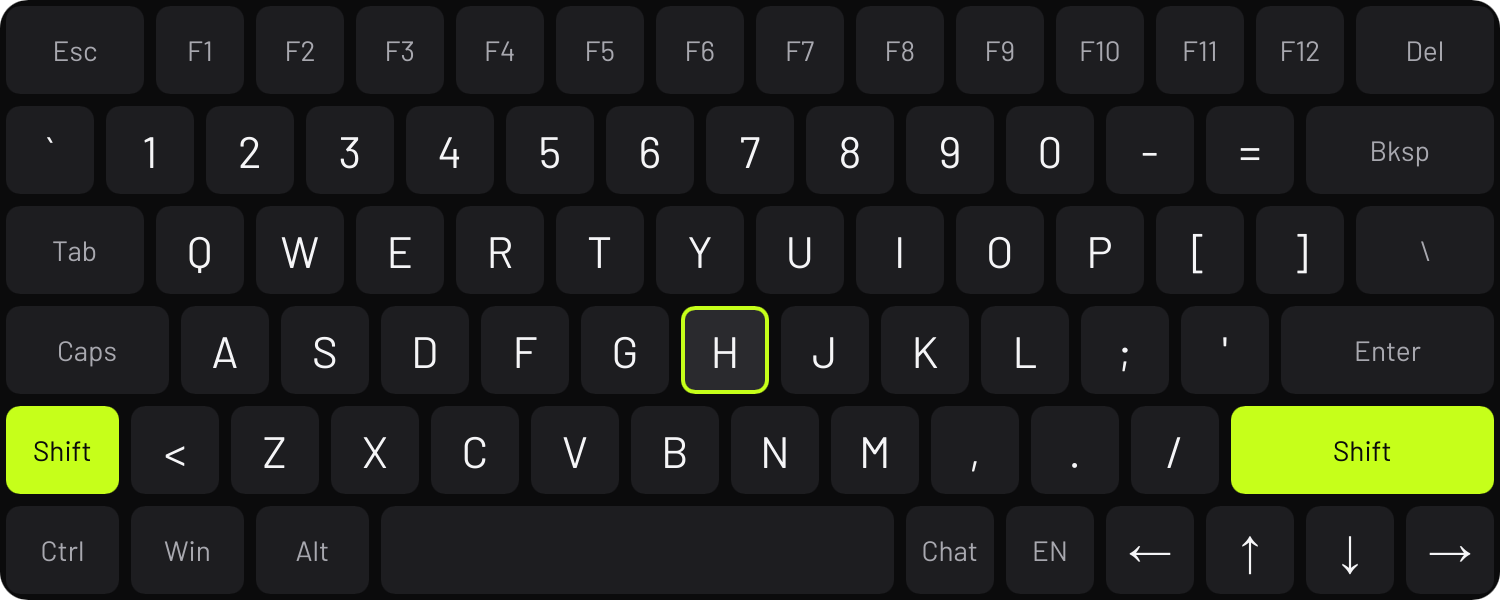
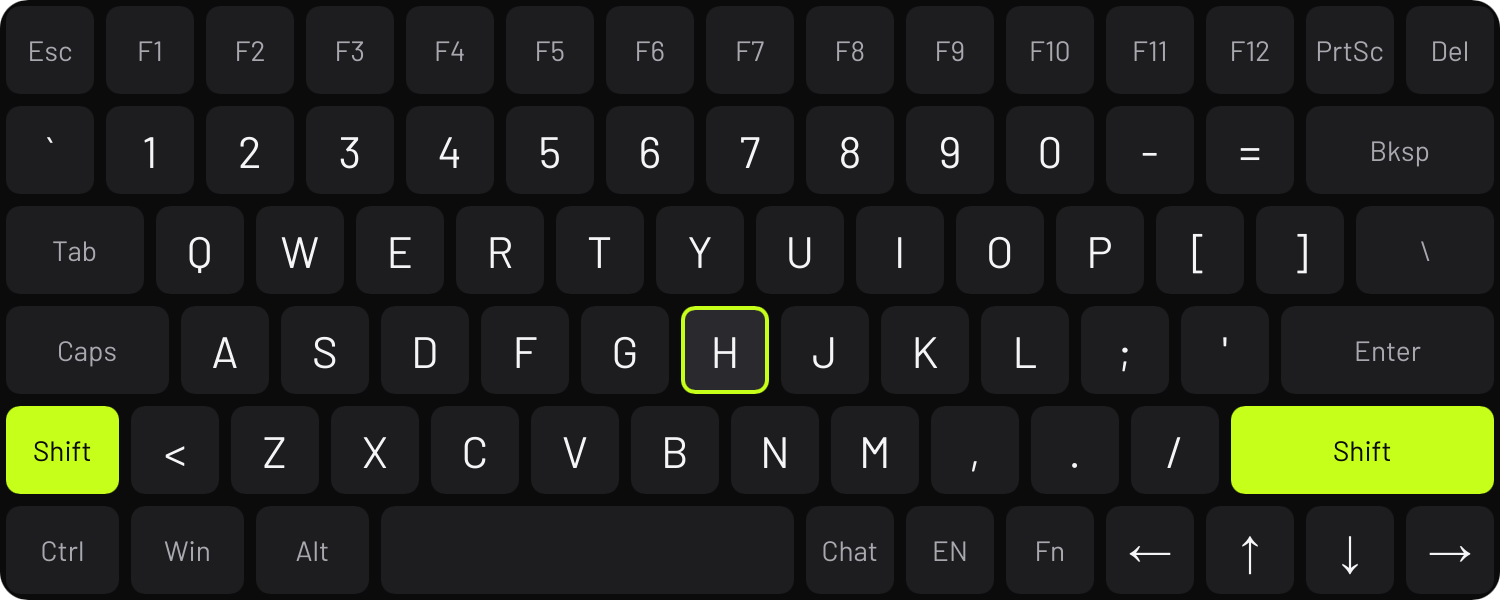
Keyboard: Print Screen, an Fn key for Home / End / Page Up / Page Down / Insert, combos of modifiers alone
Shift/Ctrl/Alt were latches sent only with the next key, so Alt+Shift (and any modifiers-only combo) could
not be typed. A lit modifier tapped again now sends the lit ones on their own (Alt, Shift, Shift = Alt+Shift),
as Win, Win already did; one lit modifier tapped again is still let go of, and Ctrl, Shift, T is unchanged.
Print Screen joins the top row (Esc and Del one unit each), sent by its virtual key since Windows ignores it
by scancode. Fn (bottom row; the space bar is a unit shorter) is a latch like the others: the arrows send
Home / End / Page Up / Page Down and Del sends Insert, the faces say so while it is lit, and a held key repeats
what it sends.

diff --git a/crates/core/src/keyboard.rs b/crates/core/src/keyboard.rs
@@ -22,6 +22,13 @@ pub const LEFT: u16 = EXT | 0x4B;
 pub const RIGHT: u16 = EXT | 0x4D;
 pub const DOWN: u16 = EXT | 0x50;
 pub const DEL: u16 = EXT | 0x53;
+pub const HOME: u16 = EXT | 0x47;
+pub const END: u16 = EXT | 0x4F;
+pub const PGUP: u16 = EXT | 0x49;
+pub const PGDN: u16 = EXT | 0x51;
+pub const INS: u16 = EXT | 0x52;
+/// Print Screen (E0 37). Windows sends it by its virtual key: injected by scancode it often does nothing.
+pub const PRTSC: u16 = EXT | 0x37;
 /// Windows key: a latch like Ctrl (Win + next key); tapped again while lit it presses Win alone (Start menu).
 pub const LWIN: u16 = EXT | 0x5B;
 pub const F1: u16 = 0x3B;
@@ -29,6 +36,8 @@ pub const F1: u16 = 0x3B;
 pub const CHAT: u16 = 0xF100;
 /// Not a real key: switches to the next installed input language; its face shows the current one.
 pub const LANG: u16 = 0xF101;
+/// Not a real key: a latch, like a laptop's Fn. The next arrow is Home / End / Page Up / Page Down, Del is Insert.
+pub const FN: u16 = 0xF102;
 
 pub struct KeyDef {
     pub sc: u16,
@@ -49,8 +58,9 @@ pub const ROW_UNITS: f32 = 15.0;
 
 #[rustfmt::skip]
 pub static ROWS: [&[KeyDef]; 6] = [
-    &[kw(ESC, 1.5, "Esc"), k(F1, "F1"), k(0x3C, "F2"), k(0x3D, "F3"), k(0x3E, "F4"), k(0x3F, "F5"), k(0x40, "F6"),
-      k(0x41, "F7"), k(0x42, "F8"), k(0x43, "F9"), k(0x44, "F10"), k(0x57, "F11"), k(0x58, "F12"), kw(DEL, 1.5, "Del")],
+    &[k(ESC, "Esc"), k(F1, "F1"), k(0x3C, "F2"), k(0x3D, "F3"), k(0x3E, "F4"), k(0x3F, "F5"), k(0x40, "F6"),
+      k(0x41, "F7"), k(0x42, "F8"), k(0x43, "F9"), k(0x44, "F10"), k(0x57, "F11"), k(0x58, "F12"), k(PRTSC, "PrtSc"),
+      k(DEL, "Del")],
     &[k(0x29, "`"), k(0x02, "1"), k(0x03, "2"), k(0x04, "3"), k(0x05, "4"), k(0x06, "5"), k(0x07, "6"),
       k(0x08, "7"), k(0x09, "8"), k(0x0A, "9"), k(0x0B, "0"), k(0x0C, "-"), k(0x0D, "="), kw(BACKSPACE, 2.0, "Bksp")],
     &[kw(TAB, 1.5, "Tab"), k(0x10, "q"), k(0x11, "w"), k(0x12, "e"), k(0x13, "r"), k(0x14, "t"), k(0x15, "y"),
@@ -59,8 +69,8 @@ pub static ROWS: [&[KeyDef]; 6] = [
       k(0x24, "j"), k(0x25, "k"), k(0x26, "l"), k(0x27, ";"), k(0x28, "'"), kw(ENTER, 2.25, "Enter")],
     &[kw(LSHIFT, 1.25, "Shift"), k(0x56, "<"), k(0x2C, "z"), k(0x2D, "x"), k(0x2E, "c"), k(0x2F, "v"), k(0x30, "b"),
       k(0x31, "n"), k(0x32, "m"), k(0x33, ","), k(0x34, "."), k(0x35, "/"), kw(RSHIFT, 2.75, "Shift")],
-    &[kw(LCTRL, 1.25, "Ctrl"), kw(LWIN, 1.25, "Win"), kw(LALT, 1.25, "Alt"), kw(SPACE, 5.25, " "), k(CHAT, "Chat"),
-      k(LANG, "Lang"), k(LEFT, "←"), k(UP, "↑"), k(DOWN, "↓"), k(RIGHT, "→")],
+    &[kw(LCTRL, 1.25, "Ctrl"), kw(LWIN, 1.25, "Win"), kw(LALT, 1.25, "Alt"), kw(SPACE, 4.25, " "), k(CHAT, "Chat"),
+      k(LANG, "Lang"), k(FN, "Fn"), k(LEFT, "←"), k(UP, "↑"), k(DOWN, "↓"), k(RIGHT, "→")],
 ];
 
 pub fn key_at(uv: [f32; 2]) -> Option<&'static KeyDef> {
@@ -97,8 +107,41 @@ pub fn key_for_label(label: &str) -> Option<&'static KeyDef> {
 }
 
 const MODS: [u16; 4] = [LSHIFT, LCTRL, LALT, LWIN];
-/// Win tapped while lit: a plain Win press (not a latch toggle).
+/// The bits of `MODS` (the keys the OS sees).
+const MOD_BITS: u8 = 0x0F;
+/// Fn's latch bit (never sent to the OS).
+pub const FN_BIT: u8 = 0x10;
+/// A lit modifier tapped again: the lit ones pressed on their own (not a latch toggle).
 const PLAIN: u8 = 0x80;
+
+/// What a key sends with Fn lit: Home / End / Page Up / Page Down on the arrows, Insert on Del.
+fn with_fn(sc: u16) -> u16 {
+    match sc {
+        LEFT => HOME,
+        RIGHT => END,
+        UP => PGUP,
+        DOWN => PGDN,
+        DEL => INS,
+        _ => sc,
+    }
+}
+
+/// The key `sc` sends, pressed with modifier mask `mods` (as `Keyboard::press` returned it).
+pub fn sent(sc: u16, mods: u8) -> u16 {
+    if mods & FN_BIT != 0 { with_fn(sc) } else { sc }
+}
+
+/// What a key's face says while Fn is lit, where that differs.
+pub fn fn_label(sc: u16) -> Option<&'static str> {
+    match sc {
+        LEFT => Some("Home"),
+        RIGHT => Some("End"),
+        UP => Some("PgUp"),
+        DOWN => Some("PgDn"),
+        DEL => Some("Ins"),
+        _ => None,
+    }
+}
 
 fn modifier_bit(sc: u16) -> Option<u8> {
     match sc {
@@ -106,22 +149,25 @@ fn modifier_bit(sc: u16) -> Option<u8> {
         LCTRL => Some(2),
         LALT => Some(4),
         LWIN => Some(8),
+        FN => Some(FN_BIT),
         _ => None,
     }
 }
 
 pub fn repeats(sc: u16) -> bool {
-    modifier_bit(sc).is_none() && sc != CAPS && sc != CHAT && sc != LANG
+    modifier_bit(sc).is_none() && sc != CAPS && sc != CHAT && sc != LANG && sc != PRTSC
 }
 
-/// Shift/Ctrl/Alt are one-shot latches: tap to arm, the next key consumes them.
+/// Shift/Ctrl/Alt/Win/Fn are one-shot latches: tap to arm, the next key consumes them. A lit modifier tapped again
+/// sends the lit ones on their own, so combos of modifiers alone work (Alt, Shift, Shift = Alt+Shift; Win, Win =
+/// Start); tapped again when it is the only one lit, Shift/Ctrl/Alt/Fn go out instead.
 #[derive(Clone, Copy, Debug, Default)]
 pub struct Keyboard {
     latched: u8,
 }
 
 impl Keyboard {
-    /// Bit 1 = Shift, 2 = Ctrl, 4 = Alt, 8 = Win.
+    /// Bit 1 = Shift, 2 = Ctrl, 4 = Alt, 8 = Win, `FN_BIT` = Fn.
     pub fn latched(&self) -> u8 {
         self.latched
     }
@@ -137,11 +183,14 @@ impl Keyboard {
             return 0;
         }
         if let Some(bit) = modifier_bit(sc) {
-            if !(sc == LWIN && self.latched & bit != 0) {
+            let lit = self.latched & bit != 0;
+            let others = self.latched & !bit & MOD_BITS != 0;
+            if !lit || sc == FN || (sc != LWIN && !others) {
                 self.latched ^= bit;
                 return 0;
             }
-            // Win, Win: open Start (Win pressed on its own, with whatever else is latched).
+            // Lit and tapped again: the lit modifiers on their own (Win, Win opens Start; Alt, Shift, Shift is
+            // Alt+Shift).
             self.latched &= !bit;
             let mods = std::mem::take(&mut self.latched);
             for (i, m) in MODS.iter().enumerate() {
@@ -158,7 +207,7 @@ impl Keyboard {
                 out.push(Event::Key { scancode: *m, down: true });
             }
         }
-        out.push(Event::Key { scancode: sc, down: true });
+        out.push(Event::Key { scancode: sent(sc, mods), down: true });
         mods
     }
 
@@ -166,7 +215,7 @@ impl Keyboard {
         if sc == CHAT || sc == LANG || (modifier_bit(sc).is_some() && mods & PLAIN == 0) {
             return;
         }
-        out.push(Event::Key { scancode: sc, down: false });
+        out.push(Event::Key { scancode: sent(sc, mods), down: false });
         for (i, m) in MODS.iter().enumerate().rev() {
             if mods & (1 << i) != 0 {
                 out.push(Event::Key { scancode: *m, down: false });
@@ -206,6 +255,67 @@ mod tests {
         kb.release(LWIN, mods, &mut out);
         assert_eq!(kb.latched(), 0);
         assert_eq!(out, vec![Event::Key { scancode: LWIN, down: true }, Event::Key { scancode: LWIN, down: false }]);
+    }
+
+    fn keys(out: &[Event]) -> Vec<(u16, bool)> {
+        out.iter()
+            .filter_map(|e| if let Event::Key { scancode, down } = *e { Some((scancode, down)) } else { None })
+            .collect()
+    }
+
+    fn tap(kb: &mut Keyboard, sc: u16, out: &mut Vec<Event>) {
+        let mods = kb.press(sc, out);
+        kb.release(sc, mods, out);
+    }
+
+    #[test]
+    fn a_lit_modifier_tapped_again_sends_the_lit_ones_alone() {
+        let mut kb = Keyboard::default();
+        let mut out = Vec::new();
+        // Alt, Shift, Shift: Alt+Shift (the language switch), nothing else.
+        for sc in [LALT, LSHIFT, LSHIFT] {
+            tap(&mut kb, sc, &mut out);
+        }
+        assert_eq!(keys(&out), vec![(LALT, true), (LSHIFT, true), (LSHIFT, false), (LALT, false)]);
+        assert_eq!(kb.latched(), 0);
+        // Ctrl, Shift, T is still Ctrl+Shift+T.
+        out.clear();
+        for sc in [LCTRL, LSHIFT, 0x14] {
+            tap(&mut kb, sc, &mut out);
+        }
+        assert_eq!(
+            keys(&out),
+            vec![(LSHIFT, true), (LCTRL, true), (0x14, true), (0x14, false), (LCTRL, false), (LSHIFT, false)]
+        );
+        // One lit modifier tapped again is let go of, as before.
+        out.clear();
+        tap(&mut kb, LALT, &mut out);
+        tap(&mut kb, LALT, &mut out);
+        assert!(out.is_empty() && kb.latched() == 0);
+    }
+
+    #[test]
+    fn fn_makes_the_arrows_home_end_page_up_down_and_del_insert() {
+        let mut kb = Keyboard::default();
+        let mut out = Vec::new();
+        for (key, with) in [(LEFT, HOME), (RIGHT, END), (UP, PGUP), (DOWN, PGDN), (DEL, INS)] {
+            out.clear();
+            tap(&mut kb, FN, &mut out);
+            assert_eq!(kb.latched(), FN_BIT);
+            tap(&mut kb, key, &mut out);
+            assert_eq!(keys(&out), vec![(with, true), (with, false)], "{key:#x}");
+            assert_eq!(kb.latched(), 0, "Fn is one-shot");
+        }
+        // With Shift too: Shift+End selects to the end of the line.
+        out.clear();
+        for sc in [LSHIFT, FN, RIGHT] {
+            tap(&mut kb, sc, &mut out);
+        }
+        assert_eq!(keys(&out), vec![(LSHIFT, true), (END, true), (END, false), (LSHIFT, false)]);
+        // Fn never reaches the OS, and a held key repeats what it sends.
+        assert_eq!(sent(UP, FN_BIT), PGUP);
+        assert_eq!(sent(UP, 0), UP);
+        assert!(!repeats(FN) && repeats(LEFT));
     }
 
     #[test]

diff --git a/crates/app/src/run.rs b/crates/app/src/run.rs
@@ -13,7 +13,7 @@ use std::time::{Duration, Instant};
 use wxr_core::backend::VrBackend;
 use wxr_core::chat::{ChatAction, ChatLine};
 use wxr_core::engine::{Claims, Engine, Event, FrameInput, MouseButton};
-use wxr_core::keyboard::{CAPS, CHAT, LALT, LANG, LCTRL, LSHIFT, LWIN, ROWS, RSHIFT, SPACE};
+use wxr_core::keyboard::{CAPS, CHAT, FN, FN_BIT, LALT, LANG, LCTRL, LSHIFT, LWIN, ROWS, RSHIFT, SPACE, fn_label};
 use wxr_core::math::{Pose, Quat, Vec3};
 use wxr_core::panel::{BANNER_ID, DEFAULT_WIDTH_M, Glance, Hand, MIN_WIDTH_M, Panel, PixelRect, Source};
 use wxr_core::raster;
@@ -37,7 +37,7 @@ const EXIT_GRACE: Duration = Duration::from_secs(3);
 /// A popped-out window appears this far in front of the hand that pulled it.
 const POP_OUT_DISTANCE_M: f32 = 0.3;
 /// Characters of the chat line that fit on the space bar.
-const SPACE_BAR_CHARS: usize = 24;
+const SPACE_BAR_CHARS: usize = 19;
 /// The watch stays expanded this long after the laser leaves it.
 const WRIST_LINGER_MS: u64 = 2500;
 /// How long a notification from another app (Discord, ...) stays on the watch.
@@ -103,11 +103,13 @@ fn layout_labels(shift: bool, caps: bool) -> Vec<String> {
         .collect()
 }
 
-/// What each key shows: label (space bar = chat line in chat mode), lit, laser hover.
+/// What each key shows: label (space bar = chat line in chat mode; with Fn lit, what the arrows and Del send),
+/// lit, laser hover.
 fn key_faces(
     faces: &mut Vec<KeyFace>,
     labels: &[String],
     chat: Option<&str>,
+    fn_lit: bool,
     lit: impl Fn(u16) -> bool,
     hover: &[Option<u16>; 2],
 ) {
@@ -118,7 +120,7 @@ fn key_faces(
                 let skip = text.chars().count().saturating_sub(SPACE_BAR_CHARS);
                 text.chars().skip(skip).collect()
             }
-            _ => label.clone(),
+            (sc, _) => fn_label(sc).filter(|_| fn_lit).map_or_else(|| label.clone(), str::to_owned),
         };
         faces.push(KeyFace { label, lit: lit(key.sc), hover: hover.contains(&Some(key.sc)) });
     }
@@ -959,9 +961,10 @@ pub fn run() -> Result<(), String> {
                     || (sc == LCTRL && latched & 2 != 0)
                     || (sc == LALT && latched & 4 != 0)
                     || (sc == LWIN && latched & 8 != 0)
+                    || (sc == FN && latched & FN_BIT != 0)
             };
             let chat_line = session.state.chatbox.then_some(chat.text());
-            key_faces(&mut faces, &labels, chat_line, lit, &key_hover);
+            key_faces(&mut faces, &labels, chat_line, latched & FN_BIT != 0, lit, &key_hover);
             keyboard.set(&faces);
             key_state = Some(state);
         }

diff --git a/crates/input-win/src/lib.rs b/crates/input-win/src/lib.rs
@@ -13,7 +13,7 @@ use windows::Win32::UI::Input::KeyboardAndMouse::{
     MOUSEEVENTF_LEFTDOWN, MOUSEEVENTF_LEFTUP, MOUSEEVENTF_RIGHTDOWN, MOUSEEVENTF_RIGHTUP, MOUSEEVENTF_WHEEL,
     MOUSEINPUT, MapVirtualKeyExW, SendInput, ToUnicodeEx, VIRTUAL_KEY,
 };
-use windows::Win32::UI::Input::KeyboardAndMouse::{GetKeyboardLayoutList, HKL, VK_CAPITAL, VK_SHIFT};
+use windows::Win32::UI::Input::KeyboardAndMouse::{GetKeyboardLayoutList, HKL, VK_CAPITAL, VK_SHIFT, VK_SNAPSHOT};
 use windows::Win32::UI::WindowsAndMessaging::{
     GetForegroundWindow, GetWindowThreadProcessId, PostMessageW, SetCursorPos, WM_INPUTLANGCHANGEREQUEST,
 };
@@ -114,6 +114,23 @@ impl Injector {
     }
 
     pub fn key(&self, scancode: u16, down: bool) {
+        // Print Screen by scancode often does nothing; by its virtual key Windows treats it as the real key.
+        if scancode == wxr_core::keyboard::PRTSC {
+            let flags = if down { KEYEVENTF_EXTENDEDKEY } else { KEYEVENTF_EXTENDEDKEY | KEYEVENTF_KEYUP };
+            send(&[INPUT {
+                r#type: INPUT_KEYBOARD,
+                Anonymous: INPUT_0 {
+                    ki: KEYBDINPUT {
+                        wVk: VK_SNAPSHOT,
+                        wScan: 0x37,
+                        dwFlags: KEYBD_EVENT_FLAGS(flags.0),
+                        time: 0,
+                        dwExtraInfo: 0,
+                    },
+                },
+            }]);
+            return;
+        }
         let mut flags = KEYEVENTF_SCANCODE;
         if scancode & EXT != 0 {
             flags |= KEYEVENTF_EXTENDEDKEY;

diff --git a/crates/core/src/engine.rs b/crates/core/src/engine.rs
@@ -683,7 +683,7 @@ impl Engine {
                 Press::Idle
             }
             Press::Key { sc, mods, next_repeat } if keyboard::repeats(sc) && now >= next_repeat => {
-                out.push(Event::Key { scancode: sc, down: true });
+                out.push(Event::Key { scancode: keyboard::sent(sc, mods), down: true });
                 Press::Key { sc, mods, next_repeat: next_repeat + KEY_REPEAT_INTERVAL_MS }
             }
             held @ Press::Key { .. } => held,

diff --git a/crates/desktop-linux/src/keys.rs b/crates/desktop-linux/src/keys.rs
@@ -13,6 +13,7 @@ pub fn evdev(scancode: u16) -> Option<u16> {
     Some(match code {
         0x1C => 96,  // keypad Enter
         0x1D => 97,  // right Ctrl
+        0x37 => 99,  // Print Screen (SysRq)
         0x35 => 98,  // keypad /
         0x38 => 100, // right Alt
         0x47 => 102, // Home

diff --git a/CHANGELOG.md b/CHANGELOG.md
@@ -53,6 +53,9 @@ First public early-access release (Windows).
   after a restart. Menu > Reset layout (or changing the watch hand) puts it back.
 
 ### Added
+- Keyboard: Print Screen, and an Fn key (as on a laptop): Fn + arrows are Home / End / Page Up / Page Down,
+  Fn + Del is Insert, and the keys show it while Fn is lit. Combos of modifiers alone: tap a lit modifier again
+  to send the lit ones (Alt, Shift, Shift = Alt+Shift), as Win, Win already opened Start.
 - The song's cover on the watch (Music and Player layouts, and the open watch), read from Windows' media session,
   in place of the note. Linux keeps the note for now.
 - Linux: WristXR runs on Linux with SteamVR for Linux, on X11 and on Wayland. On Wayland, screens, windows,
